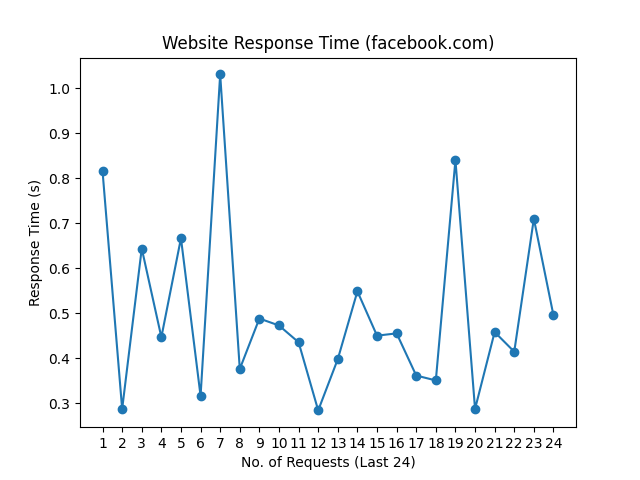
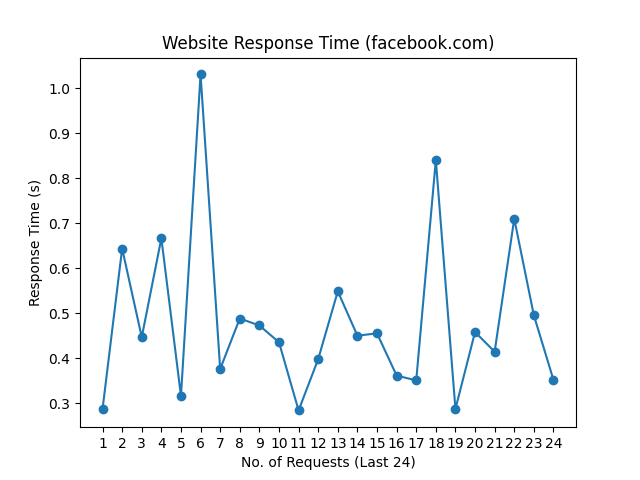
update README.md, history and graph

Changed region(s): [[0.1562, 0.125, 0.875, 0.875], [0.8438, 0.7188, 0.875, 0.8125]]

diff --git a/README.md b/README.md
@@ -1,10 +1,10 @@
 # Web Monitoring
 
-Last Checked: 04/10/2023 09:00
+Last Checked: 05/10/2023 09:00
 
 | Website | Response Time (s) | Status | Avg Uptime (%) |
 |---------|-------------------|--------|----------------|
 | www.thiswebsiteisdown.net | 0 <br> <img src="graph/thiswebsiteisdown.net.png" alt="Graph" width="200" height="200">  | ❌ Down | 0.00 |
-| www.netflix.com | 0.831628 <br> <img src="graph/netflix.com.png" alt="Graph" width="200" height="200">  | ✅ Up | 100.00 |
-| www.google.com | 0.597872 <br> <img src="graph/google.com.png" alt="Graph" width="200" height="200">  | ✅ Up | 100.00 |
-| www.facebook.com | 0.495687 <br> <img src="graph/facebook.com.png" alt="Graph" width="200" height="200">  | ✅ Up | 100.00 |
+| www.netflix.com | 1.199839 <br> <img src="graph/netflix.com.png" alt="Graph" width="200" height="200">  | ✅ Up | 100.00 |
+| www.google.com | 0.085153 <br> <img src="graph/google.com.png" alt="Graph" width="200" height="200">  | ✅ Up | 100.00 |
+| www.facebook.com | 0.352262 <br> <img src="graph/facebook.com.png" alt="Graph" width="200" height="200">  | ✅ Up | 100.00 |
